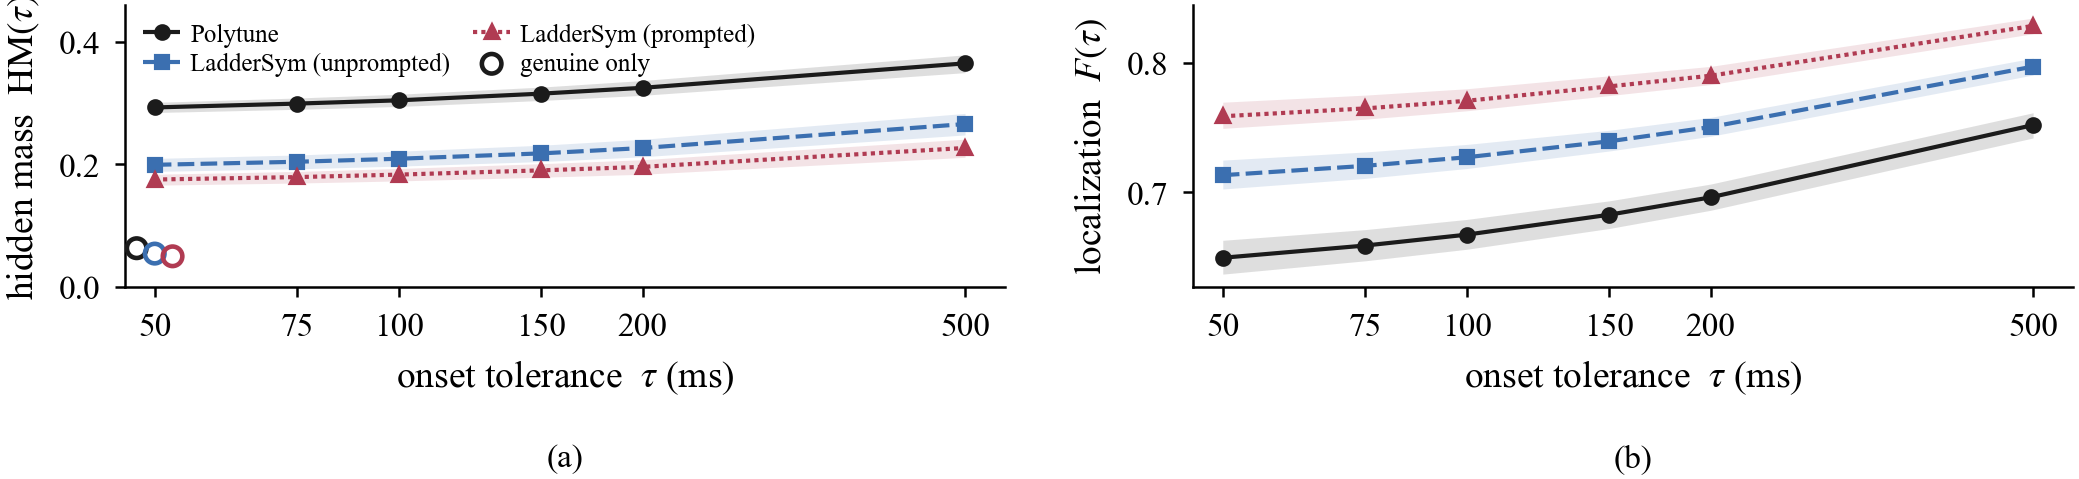
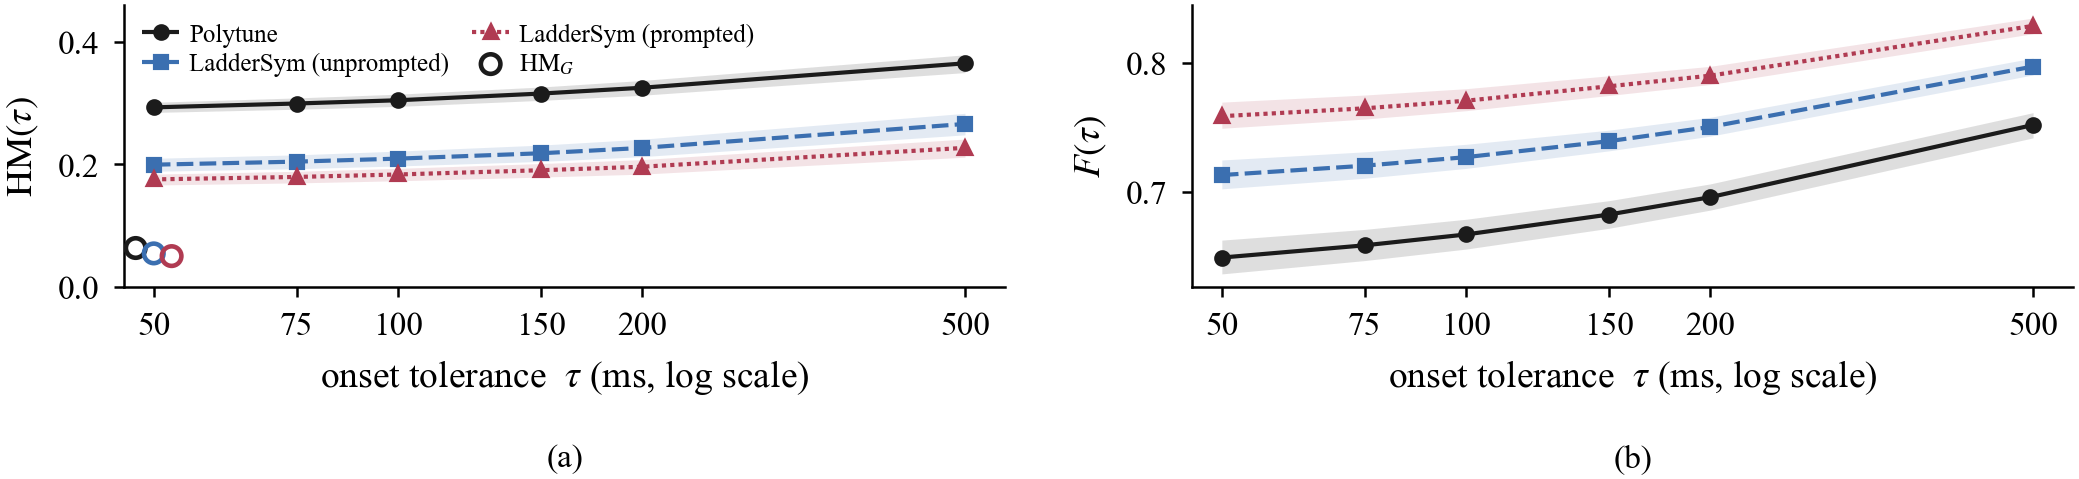
figs: Table I caption and HM_G label; Fig. 2 axis labels and legend

diff --git a/experiments/figs/fig2_measured.py b/experiments/figs/fig2_measured.py
@@ -52,15 +52,15 @@ def panel_hm(ax) -> None:
     # open markers spread +-5% about 50 ms so the three do not overprint
     ax.scatter([47.5, 50.0, 52.6][:len(lows)], lows, s=22, facecolors="none",
                edgecolors=[S.COLOR[x] for x in S.SYSTEMS], linewidths=1.1,
-               zorder=5, label="genuine only")
+               zorder=5, label="$\\mathrm{HM}_G$")
     # Prop. 1's band is deliberately NOT drawn here. It is an inner bound over
     # collapse-free configurations, while these curves are measured under the
     # collapse; sharing an axis with them asserts a containment the proposition
     # does not license, and no caption disclaimer undoes that visually. The
     # bound is stated in Prop. 1 and in Sec. III instead.
     _tau_axis(ax)
-    ax.set_xlabel("onset tolerance  $\\tau$ (ms)")
-    ax.set_ylabel("hidden mass  $\\mathrm{HM}(\\tau)$")
+    ax.set_xlabel("onset tolerance  $\\tau$ (ms, log scale)")
+    ax.set_ylabel("$\\mathrm{HM}(\\tau)$")
     ax.set_ylim(0.0, 0.46)
     ax.legend(loc="upper left", bbox_to_anchor=(0.0, 1.0), ncol=2,
               fontsize=6.0, handlelength=1.5, labelspacing=0.22,
@@ -76,8 +76,8 @@ def panel_loc(ax) -> None:
         ax.plot(sw["tau_ms"], sw["loc"], color=S.COLOR[sysname],
                 linestyle=S.DASH[sysname], marker=S.MARKER[sysname])
     _tau_axis(ax)
-    ax.set_xlabel("onset tolerance  $\\tau$ (ms)")
-    ax.set_ylabel("localization  $F(\\tau)$")
+    ax.set_xlabel("onset tolerance  $\\tau$ (ms, log scale)")
+    ax.set_ylabel("$F(\\tau)$")
 
 
 def main() -> None:

diff --git a/experiments/figs/tab_main.tex b/experiments/figs/tab_main.tex
@@ -3,18 +3,15 @@
 \centering
 \caption{Main Results on the MAESTRO-E Test Split ($\tau=50$\,ms,
 $\epsilon=50$\,ms; Per-Piece Bootstrap 95\% CIs, $10^3$ Resamples, $n=177$).
-\emph{Repl.\ $\bar F_1$} Is Our Replication's Pooled Mean of the Two
-Per-Class Missed/Extra $F_1$ Under the Systems' Protocol, Not a Number [4] or
-[5] Prints (Pooled, Not Per-Piece; Supplementary).
-No Entry Is Marked Best (Merge Rates Differ). \emph{Raw},
-\emph{Genuine} (Over $|M|-|A|-|U|$), and \emph{Unfounded} ($|U|/|M|$) Are
-Defined in Sec.~\ref{sec:experiments}}
+\emph{Repl.\ $\bar F_1$}: Our Replication's Pooled Mean of the Two Per-Class
+Missed/Extra $F_1$ Under the Systems' Protocol. No Entry Is Marked Best. Columns
+Are Defined in Sec.~\ref{sec:experiments}}
 \label{tab:main}
 \begin{tabular}{@{}l c c c c c@{}}
 \toprule
  & & & & \multicolumn{2}{c}{$\mathrm{HM}\!\downarrow$} \\
 \cmidrule(lr){5-6}
-System & Repl.\ $\bar F_1$ & $F\!\uparrow$ & unfounded$\!\downarrow$ & genuine & raw \\
+System & Repl.\ $\bar F_1$ & $F\!\uparrow$ & unfounded$\!\downarrow$ & $\mathrm{HM}_G$ & raw \\
 \midrule
 Polytune & 0.472 & 0.649~[0.637,\,0.663] & 24.1~[23.4,\,24.9]\% & 0.063~[0.057,\,0.069] & 0.293~[0.285,\,0.301] \\
 LadderSym (unprompted) & 0.574 & 0.713~[0.703,\,0.725] & 15.4~[14.7,\,16.2]\% & 0.054~[0.048,\,0.061] & 0.199~[0.189,\,0.210] \\

diff --git a/experiments/figs/make_tables.py b/experiments/figs/make_tables.py
@@ -122,18 +122,15 @@ def table_main() -> str:
 \\centering
 \\caption{{Main Results on the MAESTRO-E Test Split ($\\tau=50$\\,ms,
 $\\epsilon=50$\\,ms; Per-Piece Bootstrap 95\\% CIs, $10^3$ Resamples, $n=177$).
-\\emph{{Repl.\\ $\\bar F_1$}} Is Our Replication's Pooled Mean of the Two
-Per-Class Missed/Extra $F_1$ Under the Systems' Protocol, Not a Number [4] or
-[5] Prints (Pooled, Not Per-Piece; Supplementary).
-No Entry Is Marked Best (Merge Rates Differ). \\emph{{Raw}},
-\\emph{{Genuine}} (Over $|M|-|A|-|U|$), and \\emph{{Unfounded}} ($|U|/|M|$) Are
-Defined in Sec.~\\ref{{sec:experiments}}}}
+\\emph{{Repl.\\ $\\bar F_1$}}: Our Replication's Pooled Mean of the Two Per-Class
+Missed/Extra $F_1$ Under the Systems' Protocol. No Entry Is Marked Best. Columns
+Are Defined in Sec.~\\ref{{sec:experiments}}}}
 \\label{{tab:main}}
 \\begin{{tabular}}{{@{{}}l c c c c c@{{}}}}
 \\toprule
  & & & & \\multicolumn{{2}}{{c}}{{$\\mathrm{{HM}}\\!\\downarrow$}} \\\\
 \\cmidrule(lr){{5-6}}
-System & Repl.\\ $\\bar F_1$ & $F\\!\\uparrow$ & unfounded$\\!\\downarrow$ & genuine & raw \\\\
+System & Repl.\\ $\\bar F_1$ & $F\\!\\uparrow$ & unfounded$\\!\\downarrow$ & $\\mathrm{{HM}}_G$ & raw \\\\
 \\midrule
 {body}
 \\bottomrule
